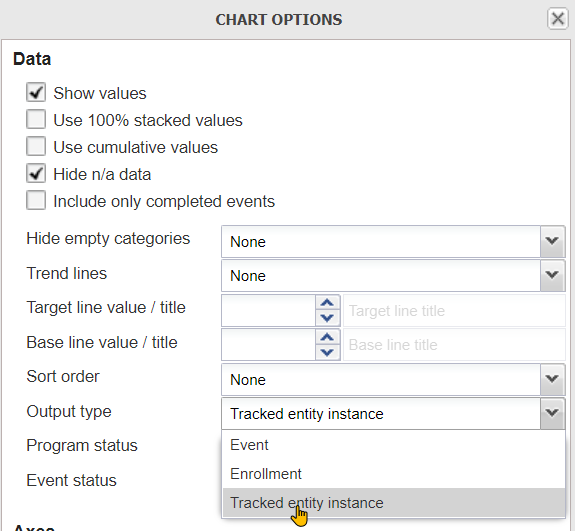
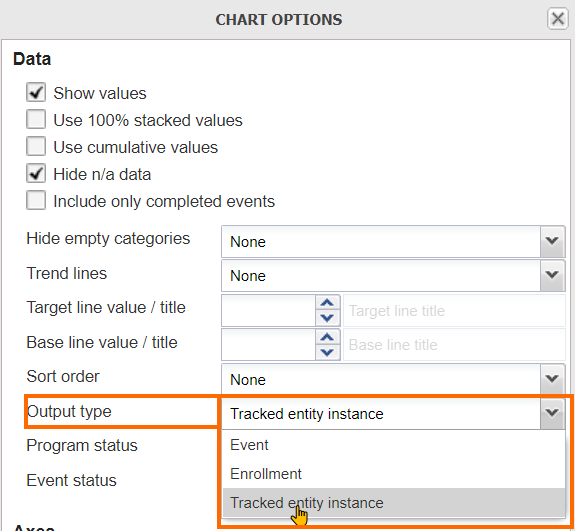
add EV learner's guide

Changed region(s): [[0.0296, 0.7232, 1.0, 1.0]]

diff --git a/content/tracker_use/tg_event_visualizer.md b/content/tracker_use/tg_event_visualizer.md
@@ -1,15 +1,35 @@
-# Trainer’s guide to Event Reports
+# Trainer’s guide to Event Visualizer
 
 ## What is this guide?
 
+This guide is a support document for DHIS2 Academy trainers for the session “Event Visualizer.” This session follows the standard Academy training approach with 
+
+1. a live demo session where the trainer demonstrate and explain the features, and 
+   
+2. a hands-on session with exercises where participants get to practice the same features.
+
+This guide will help the trainer prepare for the live demo session. The “Live Demo step by
+step” section has a detailed walkthrough of all the steps to demonstrate with
+explanations and screenshots that should be easy to follow. Use that when preparing for
+the live demo session.
+
+There is also a Quick Guide which lists the steps very briefly and this is meant as a lookup
+guide or “cheatsheet” WHILE doing the demo, to help the trainer remember all the steps
+and the flow of the demo.
 
 ## Learning objectives for this session
 
+1. Describe the event visualizer app
+2. Describe the event visualizer interface
+3. Understand how to create visualizations using tracker data
+4. Describe the limitations of event visualizer when working with tracker data
+
+
 ## Time Requirements
 
-Live Demo: 4 demos, 10 minutes each
-Hands-on Exercises: 4 exercises, 10 minutes each
-Assignment: 
+- Live Demo: 2 demos, 15 minutes each
+- Hands-on Exercises: 2 exercises, 10 minutes each
+- Assignment: 
 
 
 ## Background
@@ -34,10 +54,18 @@ In an in-person setting, the participants may be doing the demo with you at the 
 
 ## Quick Guide
 
-1. Review and create a bar chart showing AstraZeneca 1st and 2nd Doses by Location using the COVID-19 vaccination registry program. Discuss how this data is being pulled from all the events within the stage, meaning repeated event data will be included.
+1. Review the event visualizer interface
+
+2. Review and create a bar chart showing AstraZeneca 1st and 2nd Doses by Location using the COVID-19 vaccination registry program. 
+   - Program : COVID- COVID-19 Vaccination Registry, Stage: Vaccination
+   - Data : Dose Number : 1st dose, 2nd dose, Vaccine Name : AstraZeneca
+   - Period : This Year
+   - Org Unit : All level 2 OUs
+   
+   Discuss how this data is being pulled from all the events within the stage, meaning repeated event data will be included. This is not really a concern when using data from a non-repeatable stage.
    - Review saving and downloading the chart if needed
 
-2. Review the chart "COVID_CBS - Test Results" and discuss the difference between the output type options "Event" and "Tracked entity instance"
+3. Review the chart "COVID_CBS - Test Results" and discuss the difference between the output type options "Event" and "Tracked entity instance"
 
 ## Live Demo step by step
 
@@ -59,7 +87,7 @@ If choosing the start/end dates than you can select exact dates to filter events
 
 Open the chart "COVAC - AstraZeneca 1st and 2nd Doses by Location" within event visualizer.
 
-Event visualizer is particular adept at supporting outputs within both event and tracker programs as it relates to visualization of option sets. We can quite easily combine various filters within these option sets to see an aggregate representation of the cross section of these filters as applied to our data.
+Event visualizer is particular adept at supporting outputs within both event and tracker programs as it relates to the visualization of data elements using option sets. We can quite easily combine various filters across different data elements and option sets to see an aggregate representation of the cross section of these filters as applied to our data.
 
 This is the scenario we see with the chart that we are reviewing.
 
@@ -67,13 +95,18 @@ Review the Data Panel in particular.
 
 ![chart1_data_table](resources/images/event_visualizer/ev_chart1_data_table.png)
 
-We see here there is no output type selection here, just the program and the program stage. We are able to actually output a count of TEIs by using the options and this will be shown. We can not however combine data from multiple stages in event visualizer; this must be handled through the use of program indicators.
+We see here there is no output type selection here, just the program and the program stage. We are able to actually output a count of TEIs by using the options and this will be shown. We can not however combine data from multiple stages in event visualizer; charts using data from multiple program stages must be handled through the use of program indicators and data visualizer.
 
-As a review, you can re-create this chart. 
+As a review, you can re-create this chart. It has the following inputs:
+
+- Program : COVID- COVID-19 Vaccination Registry, Stage: Vaccination
+- Data : Dose Number : 1st dose, 2nd dose, Vaccine Name : AstraZeneca
+- Period : This Year
+- Org Unit : All level 2 OUs
 
 1. Favorites -> New
 2. Select the program (COVAC - COVID-19 Vaccination Registry) and stage (Vaccination)
-   1. Note here again there is no enrollment output type , event visualizer is using the "event" output type; meaning all events in a single stage are counted, by default
+   1. Note here again there is no enrollment output type , event visualizer is using the "event" output type by default; meaning all events in across all stages are counted in the totals being displayed
 3. Select the data (Dose Number : 1st dose, 2nd dose, Vaccine Name : AstraZeneca)
 
 ![chart1_data_table](resources/images/event_visualizer/ev_chart1_data_table.png)
@@ -116,9 +149,9 @@ and download the chart
 
 ### Review and modify the chart "COVID_CBS - Test Results"
 
-Open the chart "COVID_CBS - Test Results." Nothing in particular that is different about this chart; however we can note that it using data from Stage 3 - Lab Results in the surveillance program. This stage is repeatable, and by default we are seeing all of the results in this stage being displayed on the chart. 
+Open the chart "COVID_CBS - Test Results." Nothing so unique about this chart; however we can note that it using data from Stage 3 - Lab Results in the surveillance program. This stage is repeatable, and by default we are seeing all of the events in this program stage being displayed on the chart.
 
-Rather then counting the number of tests, what if we want the number of unique people with these test results? In event reports, we were able to use the enrollment type output to both count enrollments as well as combine data from multiple stages in one list. We do not have that option here, but we can count the number of tracked entities.
+Rather then counting the total number of tests with these results, what if we wanted the number of unique people with these test results? In event reports, we were able to use the enrollment type output to both count enrollments as well as combine data from multiple stages in one list. We do not have that option here, but we can count the number of tracked entities.
 
 Open the chart options and review the output type
 
@@ -131,8 +164,12 @@ We can see there are 3 options:
 
 ***NB***: Enrollment does not work as we can not pull data from multiple stages in event visualizer. It seems to be there incorrectly. Please ask the participant's to ignore this option.
 
-Select the option "Tracked entity instance" and update the chart. You should see a a few less positive cases identified within this org unit, as it is counting the number of TEI's uniquely, rather then the number of events containing this result. 
+Select the option "Tracked entity instance" and update the chart. You should see a a few less positive cases identified within this org unit when compared to the previous chart, as it is counting the number of TEI's uniquely, rather then counting the number of events matching the criteria of your filter(s).
 
 ![chart2_final](resources/images/event_visualizer/chart2_final_output.png)
 
 > Why the different language between event reports and event visualizer regarding the output type? The Enrollment output type in event reports allows you to display information unique to an enrollment, as well as obtain data across an entire enrollment (meaning you can review data from multiple program stages together in the line list; and obtain unique counts via the pivot table). The "Tracked entity instance" output type in event visualizer is much more limiting. It does not allow you to pull data from multiple program stages; it just let's you count the number of unique tracked entities (in this case individual people) that meet the criteria you have set via your filters within a program stage 1 or more times. This can be useful but it is important to identify this distinction.
+
+In explaining the concept above to the participant's, you can refer back to slide 4 in the presentation. 
+
+#### STOP! Have them perform *Exercise 2* in the learner's guide.

diff --git a/content/tracker_use/lg_event_visualizer.md b/content/tracker_use/lg_event_visualizer.md
@@ -1,0 +1,103 @@
+# Learner's Guide to Event Visualizer
+
+## What is this guide?
+
+This guide contains all exercises and detailed steps to perform them related to the use of event visualizer for the Tracker Use Level 1 academy. Please perform each of the exercises when prompted to by your instructors
+
+## Learning objectives for this session
+
+The overall objective of this session is to use the DHIS2 event reports app to review ***tracker*** data. Detailed objectives include:
+
+1. Describe the functions of the event visualizer app
+2. Describe the event visualizer interface
+3. Create visualizations using tracker data
+4. Describe the limitations of event visualizer when working with tracker data
+
+## Exercise 1
+
+### Review and create the chart "COVAC - AstraZeneca 1st and 2nd Doses by Location"
+
+Open the chart "COVAC - AstraZeneca 1st and 2nd Doses by Location" within event visualizer.
+
+Event visualizer is particular adept at supporting outputs within both event and tracker programs as it relates to the visualization of data elements using option sets. We can quite easily combine various filters across different data elements and option sets to see an aggregate representation of the cross section of these filters as applied to our data.
+
+This is the scenario we see with the chart that we are reviewing.
+
+Review the Data Panel in particular.
+
+![chart1_data_table](resources/images/event_visualizer/ev_chart1_data_table.png)
+
+We see here there is no output type selection here, just the program and the program stage. We are able to actually output a count of TEIs by using the options and this will be shown. We can not however combine data from multiple stages in event visualizer; charts using data from multiple program stages must be handled through the use of program indicators and data visualizer.
+
+As a review, you can re-create this chart. It has the following inputs:
+
+- Program : COVID- COVID-19 Vaccination Registry, Stage: Vaccination
+- Data : Dose Number : 1st dose, 2nd dose, Vaccine Name : AstraZeneca
+- Period : This Year
+- Org Unit : All level 2 OUs
+
+1. Favorites -> New
+2. Select the program (COVAC - COVID-19 Vaccination Registry) and stage (Vaccination)
+   1. Note here again there is no enrollment output type , event visualizer is using the "event" output type by default; meaning all events in across all stages are counted in the totals being displayed
+3. Select the data (Dose Number : 1st dose, 2nd dose, Vaccine Name : AstraZeneca)
+
+![chart1_data_table](resources/images/event_visualizer/ev_chart1_data_table.png)
+
+3. Select the Period (This Year)
+
+![chart1_period](resources/images/event_visualizer/chart1_period.png)
+
+4. Select the org unit (All provinces, or user sub-units)
+
+![chart1_OU](resources/images/event_visualizer/chart1_OU.png)
+
+5. Modify the layout
+
+![chart1_layout](resources/images/event_visualizer/chart1_layout.png)
+
+Update the chart to review your output.
+
+![chart1_output](resources/images/event_visualizer/chart1_initial_output.png)
+
+The chart is not sorted and does not have a title as is the case with the saved chart reviewed earlier. You can open up the options panel and add in these details.
+
+![chart1_options](resources/images/event_visualizer/chart1_options.png)
+
+Then proceed to update your chart to view the final output. 
+
+![chart1_final](resources/images/event_visualizer/chart1_final_output.png)
+
+#### Other features as a refresher
+
+You can also save the chart using the favorites menu
+
+![ev_save](resources/images/event_visualizer/ev_save_menu.png) 
+
+and download the chart
+
+![ev_download](resources/images/event_visualizer/ev_download_menu.png)
+
+## Exercise 2
+
+### Review and modify the chart "COVID_CBS - Test Results"
+
+Open the chart "COVID_CBS - Test Results." Nothing so unique about this chart; however we can note that it using data from Stage 3 - Lab Results in the surveillance program. This stage is repeatable, and by default we are seeing all of the events in this program stage being displayed on the chart.
+
+Rather then counting the total number of tests with these results, what if we wanted the number of unique people with these test results? In event reports, we were able to use the enrollment type output to both count enrollments as well as combine data from multiple stages in one list. We do not have that option here, but we can count the number of tracked entities.
+
+Open the chart options and review the output type
+
+![chart2_options](resources/images/event_visualizer/chart2_options.png)
+
+We can see there are 3 options:
+1. Event
+2. Enrollment
+3. Tracked Entity Instance
+
+***NB***: Enrollment does not work as we can not pull data from multiple stages in event visualizer. It seems to be there incorrectly. Please ignore this option.
+
+Select the option "Tracked entity instance" and update the chart. You should see a a few less positive cases identified within this org unit when compared to the previous chart, as it is counting the number of TEI's uniquely, rather then counting the number of events matching the criteria of your filter(s).
+
+![chart2_final](resources/images/event_visualizer/chart2_final_output.png)
+
+> Why the different language between event reports and event visualizer regarding the output type? The Enrollment output type in event reports allows you to display information unique to an enrollment, as well as obtain data across an entire enrollment (meaning you can review data from multiple program stages together in the line list; and obtain unique counts via the pivot table). The "Tracked entity instance" output type in event visualizer is much more limiting. It does not allow you to pull data from multiple program stages; it just let's you count the number of unique tracked entities (in this case individual people) that meet the criteria you have set via your filters within a program stage 1 or more times. This can be useful but it is important to identify this distinction.

diff --git a/content/tracker_use/tg_event_reports.md b/content/tracker_use/tg_event_reports.md
@@ -232,6 +232,16 @@ You will only see the data which meets this criteria
 
 ![covac_line_filters_display](resources/images/event_reports/table2_line_covac_filters_displayed.png)
 
+### Other features as a refresher
+
+You can also show them how to save the report using the favorites menu
+
+![ev_save](resources/images/event_visualizer/ev_save_menu.png) 
+
+and download the report
+
+![ev_download](resources/images/event_visualizer/ev_download_menu.png)
+
 #### STOP! Have them perform *Exercise 1* in the learner's guide.
 
 ### Create a list type event report for a repeatable stage using the COVID-19 surveillance program
